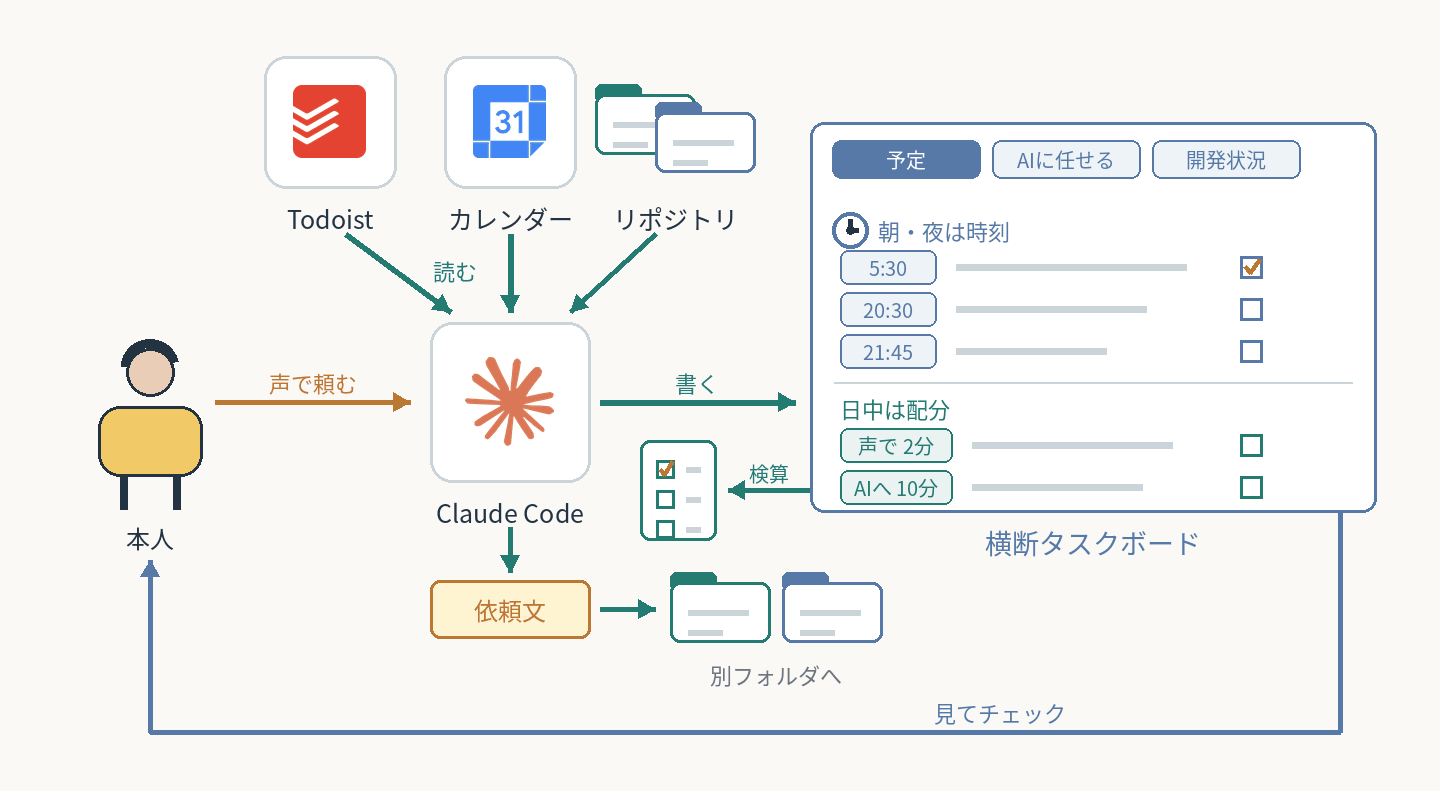
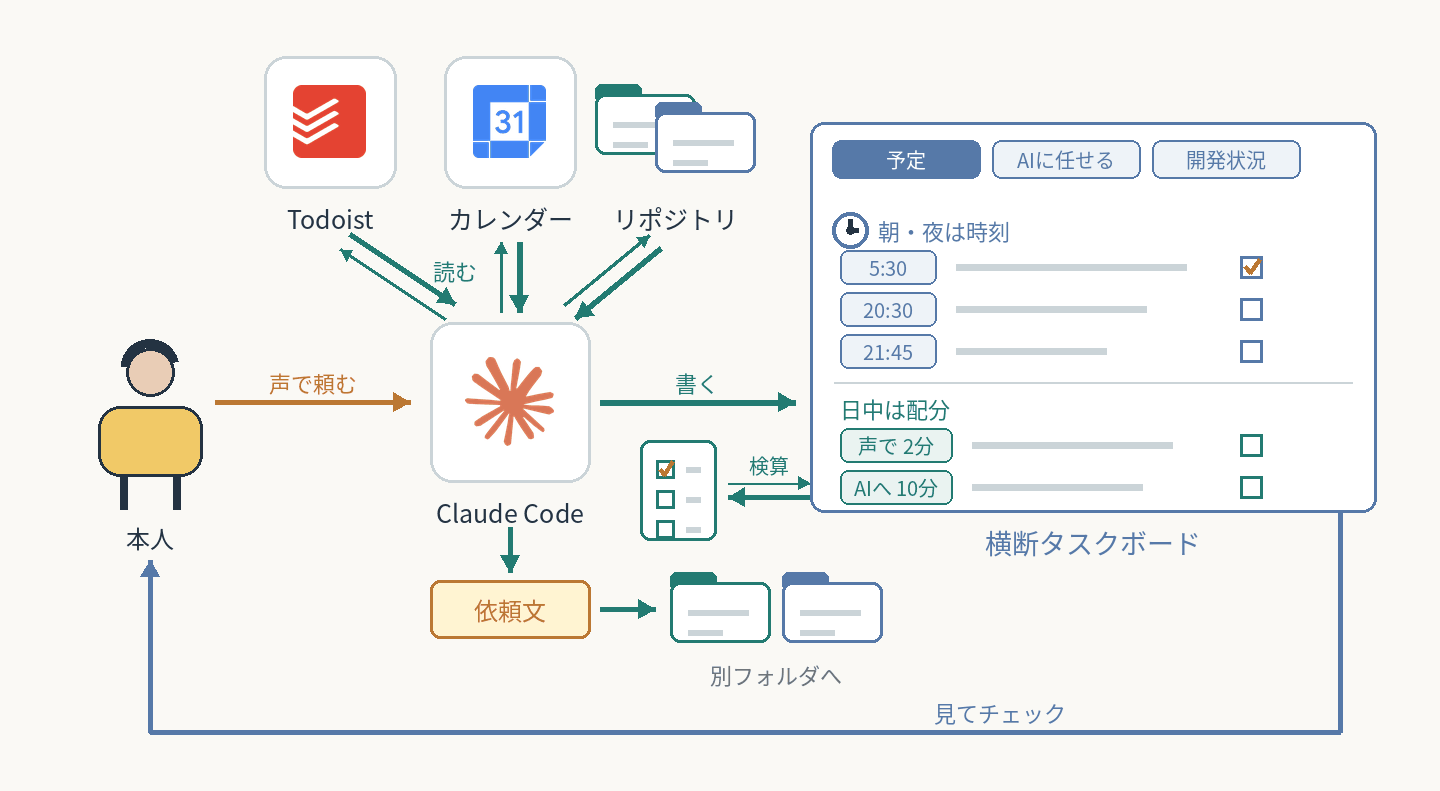
AI が読みに行く関係を pull()（細い線で取りに行き、太い線で戻る）で描く決まりにし、図 14 枚を描き直す
本人の指摘（2026-11-01）：Gmail から ChatGPT へ向く矢印だと、Gmail が内容を押し込んでいるように見える。実際は ChatGPT が読みに行く。
AGENTS.md「見せ方と図」に決まりを足し、figkit.pull() を追加。AI が書く関係・本人の操作・通知は arrow() のまま。

Changed region(s): [[0.3438, 0.3034, 0.4688, 0.3944], [0.2188, 0.3034, 0.3125, 0.3944], [0.5, 0.5765, 0.5625, 0.6372]]

diff --git a/systems/daily-task-hub/figure.py b/systems/daily-task-hub/figure.py
@@ -55,14 +55,14 @@ fk.service('openai', cgx, cgy, 'ChatGPT', tile=CGT)
 fk.clock(cgr, cgt, 30)
 fk.text(cgr + 40, cgt - 16, '毎朝6:00', 26, fk.BLUE)
 
-# Gmail → ChatGPT（読む）：左の上段に入る
-fk.arrow([(GM[0] + 66, GM[1]), (404, GM[1]), (404, cgy - 50), (cgl - 6, cgy - 50)])
+# ChatGPT が Gmail の未読を読みに行く（Gmail が押し込むのではない）ので pull()。左の上段
+fk.pull([(cgl - 6, cgy - 50), (410, cgy - 50), (410, GM[1]), (GM[0] + 66, GM[1])])
 fk.centered(334, GM[1] - 42, '読む', 23, fk.TEAL)
-# ブックマーク ⇢ ChatGPT（頼んだ時だけ）：左の中段に入る
-fk.dashed_arrow([(bx + 30, by), (344, by), (344, cgy), (cgl - 6, cgy)])
-fk.centered(284, by - 40, '頼んだ時', 23, fk.AMBER)
-# iPhone 音声 → ChatGPT（音声モードで頼む）：左の下段に入り、ChatGPT → Todoist に合流する
-fk.arrow([(vx + 48, vy), (384, vy), (384, cgy + 50), (cgl - 6, cgy + 50)], fk.BLUE)
+# ChatGPT がブックマークを読みに行く（頼んだ時だけなので薄い色）。左の中段
+fk.pull([(cgl - 6, cgy), (344, cgy), (344, by), (bx + 30, by)], fk.FAINT)
+fk.centered(284, by - 48, '頼んだ時', 23, fk.AMBER)
+# iPhone 音声 → ChatGPT（本人が音声モードで頼む）：左の下段に入り、ChatGPT → Todoist に合流する
+fk.arrow([(vx + 48, vy), (372, vy), (372, cgy + 50), (cgl - 6, cgy + 50)], fk.BLUE)
 fk.centered(293, vy - 40, 'その場で', 23, fk.BLUE)
 
 # ── Todoist（タスクの集まる場所） ──────────────────────────
@@ -75,12 +75,12 @@ fk.service('todoist', tdx, tdy, 'Todoist', tile=TDT)
 # ChatGPT → Todoist（登録・整理）
 fk.arrow([(cgr + 6, cgy - 25), (tdx - 40, cgy - 25), (tdx - 40, tdt - 6)])
 fk.text(tdx - 28, 330, '登録・整理', 23, fk.TEAL)
-# Todoist → ChatGPT（読む）
-fk.arrow([(tdl - 6, tdy - 30), (774, tdy - 30), (774, cgy + 35), (cgr + 6, cgy + 35)])
-fk.text(786, 392, '読む', 23, fk.TEAL)
+# ChatGPT が Todoist の Inbox を読みに行く（pull()。登録・整理の書き込みとは別の線）
+fk.pull([(cgr + 6, cgy + 35), (774, cgy + 35), (774, tdy - 30), (tdl - 6, tdy - 30)])
+fk.text(796, 392, '読む', 23, fk.TEAL)
 
 # 手入力 → Todoist（直接入る）。音声の横線（y=490）より 100px 下を通し、別の線と分かるようにする。
-# 曲がる位置は図の下中央が空かないよう右寄り（x=700）。「読む」の縦線（x=774）とは交わらない
+# 曲がる位置は図の下中央が空かないよう右寄り（x=700）。「読む」の 2 本線（x=765〜783）とは交わらない
 JX = 700
 fk.arrow([(mx + 84, my), (JX, my), (JX, tdy + 50), (tdl - 6, tdy + 50)], fk.BLUE)
 

diff --git a/scripts/figkit.py b/scripts/figkit.py
@@ -9,6 +9,7 @@
 - 図の中に題名・副題・説明の帯・注記を入れない。絵・矢印・短いラベル（原則 12 字以内）だけで伝える
 - サービスは service()（ロゴ＋名前）で示す。ロゴは scripts/logos/（Simple Icons、CC0）。無いサービスは名前の文字だけ
 - 横幅は 1440px。縦は save() が中身に合わせて切り詰める（最大 900px）
+- AI が読みに行く関係は pull()（AI → 取りに行く先の順に点を渡す）。AI が書き込む関係・本人の操作・通知は arrow()
 """
 import math
 from pathlib import Path
@@ -69,6 +70,38 @@ def arrow(points, color=TEAL, width=6):
     d.polygon([(x, y),
                (x - 19 * math.cos(a - .5), y - 19 * math.sin(a - .5)),
                (x - 19 * math.cos(a + .5), y - 19 * math.sin(a + .5))], fill=color)
+
+
+def _offset(points, o):
+    """折れ線を法線方向に o だけずらす（角は miter）。水平・垂直の線分向け。"""
+    segs = []
+    for (x0, y0), (x1, y1) in zip(points, points[1:]):
+        length = math.hypot(x1 - x0, y1 - y0) or 1
+        segs.append((-(y1 - y0) / length, (x1 - x0) / length))
+    out = []
+    for i, (x, y) in enumerate(points):
+        n1 = segs[max(i - 1, 0)]; n2 = segs[min(i, len(segs) - 1)]
+        dot = n1[0] * n2[0] + n1[1] * n2[1]
+        k = o / (1 + dot) if dot > -0.9 else o
+        out.append((x + (n1[0] + n2[0]) * k, y + (n1[1] + n2[1]) * k))
+    return out
+
+
+def pull(points, color=TEAL, width=6, gap=9):
+    """AI が取りに行って読む関係。points は AI → サービス（取りに行く向き）。
+
+    細い線が AI からサービスへ向かい、太い線（データ）がサービスから AI へ戻る。
+    サービスが AI に押し込んでいるように見せないための部品。AI が書き込む関係は arrow() のまま。
+    """
+    out = _offset(points, -gap)
+    back = list(reversed(_offset(points, gap)))
+    d.line(out, fill=color, width=max(2, width // 2), joint='curve')
+    x, y = out[-1]; x0, y0 = out[-2]
+    a = math.atan2(y - y0, x - x0)
+    d.polygon([(x, y),
+               (x - 13 * math.cos(a - .5), y - 13 * math.sin(a - .5)),
+               (x - 13 * math.cos(a + .5), y - 13 * math.sin(a + .5))], fill=color)
+    arrow(back, color, width)
 
 
 def dashed_arrow(points, color=FAINT, width=4, dash=14, gap=10):

diff --git a/systems/context-reading-loop/figure.py b/systems/context-reading-loop/figure.py
@@ -41,17 +41,17 @@ fk.text(GPT + 158, TY - HALF - 47, '毎週', 25, fk.BLUE)
 fk.service('github', LOG, TY)
 fk.centered(LOG, TY - HALF - 46, 'reading-log', 25)
 
-# personal-ai-context ⇄ ChatGPT
-fk.arrow([(CTX + HALF + 16, TY - 20), (GPT - HALF - 16, TY - 20)], fk.BLUE)
-fk.centered((CTX + GPT) / 2, TY - 56, '読む', 24, fk.BLUE)
-fk.arrow([(GPT - HALF - 16, TY + 20), (CTX + HALF + 16, TY + 20)], fk.TEAL)
-fk.centered((CTX + GPT) / 2, TY + 32, '会話の差分を更新', 24, fk.TEAL)   # 元は会話。読書レビューは書き戻さない
+# personal-ai-context ⇄ ChatGPT：読むのは ChatGPT が取りに行く（pull）、更新は書き込む（arrow）
+fk.pull([(GPT - HALF, TY - 16), (CTX + HALF, TY - 16)], fk.BLUE)
+fk.centered((CTX + GPT) / 2, TY - 60, '読む', 24, fk.BLUE)
+fk.arrow([(GPT - HALF, TY + 26), (CTX + HALF, TY + 26)], fk.TEAL)
+fk.centered((CTX + GPT) / 2, TY + 38, '会話の差分を更新', 24, fk.TEAL)   # 元は会話。読書レビューは書き戻さない
 
-# reading-log ⇄ ChatGPT
-fk.arrow([(LOG - HALF - 16, TY - 20), (GPT + HALF + 16, TY - 20)], fk.BLUE)
-fk.centered((GPT + LOG) / 2, TY - 56, '読む', 24, fk.BLUE)
-fk.arrow([(GPT + HALF + 16, TY + 20), (LOG - HALF - 16, TY + 20)], fk.TEAL)
-fk.centered((GPT + LOG) / 2, TY + 32, '順位・感想を記録', 24, fk.TEAL)   # 本人の感想も会話経由で reading-log へ
+# reading-log ⇄ ChatGPT：同じく読むは pull、記録は arrow（gap を負にして細い線を内側に揃える）
+fk.pull([(GPT + HALF, TY - 16), (LOG - HALF, TY - 16)], fk.BLUE, gap=-9)
+fk.centered((GPT + LOG) / 2, TY - 60, '読む', 24, fk.BLUE)
+fk.arrow([(GPT + HALF, TY + 26), (LOG - HALF, TY + 26)], fk.TEAL)
+fk.centered((GPT + LOG) / 2, TY + 38, '順位・感想を記録', 24, fk.TEAL)   # 本人の感想も会話経由で reading-log へ
 
 # 本人：reading-log を見て読み、感想を ChatGPT に話す（ChatGPT が reading-log へ記録する往復）
 PY = 580

diff --git a/cases/handoff-and-todo-files/figure.py b/cases/handoff-and-todo-files/figure.py
@@ -50,11 +50,11 @@ fk.centered(455, 222, '書く', 22, fk.TEAL)
 fk.arrow([(LX + 85, 360), (DX - 10, 470)])
 fk.centered(455, 428, '問いを書く', 22, fk.TEAL)
 
-# 読む（2 つのファイル → 右の Claude）
-fk.arrow([(DX + 150, 212), (RX - 85, 300)])
-fk.centered(975, 222, '読む', 22, fk.TEAL)
-fk.arrow([(DX + 150, 470), (RX - 85, 360)])
-fk.centered(960, 366, '読む', 22, fk.TEAL)
+# 読む（右の Claude が 2 つのファイルを読みに行く）
+fk.pull([(RX - 85, 300), (DX + 150, 212)])
+fk.centered(975, 206, '読む', 22, fk.TEAL)
+fk.pull([(RX - 85, 360), (DX + 150, 470)])
+fk.centered(960, 362, '読む', 22, fk.TEAL)
 
 # 答えを書く（右の Claude → TODO。本人の答えを本人の言葉で残す）
 fk.arrow([(RX - 85, 410), (DX + 152, 530)], fk.AMBER, 5)
@@ -75,7 +75,7 @@ fk.centered(372, 766, '点検', 24, fk.TEAL)
 fk.arrow([(424, 650), (DX + 18, 568)], fk.TEAL, 5)
 fk.centered(600, 642, '古さを見つける', 22, fk.TEAL)
 
-# 右下中央：横断タスクボードが TODO を読む
+# 右下中央：横断タスクボードが TODO を読みに行く
 BX0, BY0, BX1, BY1 = 830, 640, 1090, 790
 fk.rr((BX0, BY0, BX1, BY1), 'white', fk.BLUE, 3, 14)
 for k, w in enumerate([150, 110, 130]):
@@ -83,7 +83,7 @@ for k, w in enumerate([150, 110, 130]):
     fk.rr((BX0 + 22, ry, BX0 + 70, ry + 26), '#eef3f8', fk.BLUE, 2, 7)
     fk.d.line((BX0 + 86, ry + 13, BX0 + 86 + w, ry + 13), fill=fk.LINE, width=6)
 fk.centered((BX0 + BX1) / 2, 800, '横断タスクボード', 24, fk.BLUE)
-fk.arrow([(DX + 122, 568), (BX0 + 30, BY0 - 8)], fk.BLUE, 5)
-fk.centered(848, 578, '読む', 22, fk.BLUE)
+fk.pull([(BX0 + 30, BY0 - 8), (DX + 122, 568)], fk.BLUE, 5)
+fk.centered(872, 574, '読む', 22, fk.BLUE)
 
 fk.save(Path(args.out))

diff --git a/cases/scheduled-reviews/figure.py b/cases/scheduled-reviews/figure.py
@@ -39,12 +39,12 @@ fk.text(732, 130, '20:30・22:00', 22, fk.BLUE)
 # 中央：ChatGPT のスケジュールが記録と会話を確認・分析する
 fk.service('openai', 680, 300, 'ChatGPT')
 
-# 左：記録（GitHub のリポジトリ）。読んで、結果を保存する
+# 左：記録（GitHub のリポジトリ）。ChatGPT が取りに行って読み（pull）、結果を保存する（arrow）
 fk.service('github', 210, 300, 'GitHub')
-fk.arrow([(280, 272), (610, 272)])
-fk.centered(445, 230, '読む', 24, fk.TEAL)
-fk.arrow([(610, 328), (280, 328)])
-fk.centered(445, 338, '保存', 24, fk.TEAL)
+fk.pull([(614, 268), (276, 268)])
+fk.centered(445, 222, '読む', 24, fk.TEAL)
+fk.arrow([(614, 330), (276, 330)])
+fk.centered(445, 340, '保存', 24, fk.TEAL)
 
 # 左上：もう 1 つの入力。会話（コンテキスト更新）は別の定期処理なので、記録の矢印とはつながない
 bubble(400, 92, 140, 80, '会話')
@@ -59,12 +59,12 @@ fk.person(1250, 290, .72)
 fk.centered(1250, 390, '本人', 26)
 fk.arrow([(1110, 300), (1175, 300)], fk.BLUE, 5)
 
-# 下：本人が目的・周期・判断基準を決めて ChatGPT へ渡す
+# 下：本人が目的・周期・判断基準を決める（arrow）。ChatGPT はそれを取りに行って読む（pull）
 fk.rr((460, 585, 900, 655), fk.NOTE, '#e7ca7c', 2, 12)
 fk.centered(680, 600, '目的・周期・判断基準', 24)
 fk.arrow([(1250, 446), (1250, 620), (910, 620)], fk.AMBER, 5)
-fk.arrow([(680, 580), (680, 424)], fk.AMBER, 5)
-fk.text(698, 486, '設定', 24, fk.AMBER)
+fk.pull([(680, 424), (680, 580)], fk.AMBER, 5)
+fk.text(706, 486, '設定', 24, fk.AMBER)
 
 fk.save(HERE / 'cover.png')
 

diff --git a/cases/allowance-shopping-plan/figure.py b/cases/allowance-shopping-plan/figure.py
@@ -54,19 +54,19 @@ fk.text(232, 288, '調べてメモ', 22, fk.TEAL)
 fk.service('notion', 210, 420, 'Notion')
 wish_db(300, 354)
 
-# 中央：Claude Code が読んで計算し、画面を作る
-fk.arrow([(515, 400), (638, 400)])
-fk.centered(576, 362, '読む', 22, fk.TEAL)
-fk.dashed_arrow([(638, 445), (515, 445)], fk.FAINT, 4)
-fk.centered(576, 456, '反映', 22, fk.GRAY)
+# 中央：Claude Code が取りに行って読み、計算し、画面を作る（書き戻しは必要なときだけ）
+fk.pull([(643, 404), (505, 404)])
+fk.centered(576, 356, '読む', 22, fk.TEAL)
+fk.dashed_arrow([(643, 452), (505, 452)], fk.FAINT, 4)
+fk.centered(576, 462, '反映', 22, fk.GRAY)
 fk.service('claude', 720, 420, 'Claude Code', tile=150)
 
-# 上：Amazon の値段の履歴（Keepa）を Claude が読む
+# 上：Amazon の値段の履歴（Keepa）を Claude が取りに行って読む（2 つの札を 1 つの枠にまとめ、pull は 1 本）
+fk.rr((580, 70, 872, 232), 'white', fk.BLUE, 3, 18)
 fk.service('amazon', 660, 150, 'Amazon', tile=118)
 fk.service('keepa', 792, 150, 'Keepa', tile=118)
-fk.arrow([(660, 215), (660, 338)], fk.BLUE, 5)
-fk.arrow([(790, 215), (790, 338)], fk.BLUE, 5)
-fk.centered(725, 258, '値段の履歴', 20, fk.BLUE)
+fk.pull([(720, 343), (720, 234)], fk.BLUE, 5)
+fk.text(744, 275, '値段の履歴', 20, fk.BLUE)
 
 # 右：計画の画面（積立はひとつ。高すぎる物は保留）
 fk.arrow([(800, 420), (945, 420)])

diff --git a/cases/daily-cross-task-board/figure.py b/cases/daily-cross-task-board/figure.py
@@ -53,9 +53,10 @@ fk.centered(675, 228, 'リポジトリ', 25)
 # 中央：Claude Code が読んで組む
 CX, CY = 510, 430
 fk.service('claude', CX, CY, 'Claude Code', tile=160)
-fk.arrow([(345, 262), (CX - 60, CY - 90)])
-fk.arrow([(510, 262), (CX, CY - 90)])
-fk.arrow([(655, 262), (CX + 60, CY - 90)])
+# Claude Code が取りに行って読む（細い線が向かい、太い線がデータを持ち帰る）
+fk.pull([(CX - 60, CY - 90), (345, 270)])
+fk.pull([(CX, CY - 90), (510, 270)])
+fk.pull([(CX + 60, CY - 90), (655, 270)])
 fk.centered(455, 282, '読む', 22, fk.TEAL)
 
 # 右：横断タスクボード（時刻の枠・配分の枠）
@@ -63,10 +64,10 @@ fk.arrow([(CX + 90, CY), (795, CY)])
 fk.centered(697, CY - 36, '書く', 22, fk.TEAL)
 bx0, by0, bx1, by1 = 810, 150, 1376, 540
 
-# 検算：書いたあとにボードから戻って確かめる（件数・時刻の重なり）
+# 検算：書いたあとにボードを読み直して確かめる（件数・時刻の重なり）。読みに行くので pull
 fk.checklist(640, 468, 76, 100)
-fk.arrow([(bx0, 518), (728, 518)], fk.TEAL, 5)
-fk.centered(769, 486, '検算', 20, fk.TEAL)
+fk.pull([(728, 518), (bx0, 518)], fk.TEAL, 5, gap=7)
+fk.centered(769, 478, '検算', 20, fk.TEAL)
 fk.rr((bx0, by0, bx1, by1), 'white', fk.BLUE, 3, 14)
 for k, (name, on) in enumerate([('予定', True), ('AIに任せる', False), ('開発状況', False)]):
     tx = bx0 + 22 + k * 160

diff --git a/cases/daily-todoist-triage/figure.py b/cases/daily-todoist-triage/figure.py
@@ -41,9 +41,9 @@ fk.clock(640, 150, 36)
 fk.text(690, 130, '毎朝6:00', 30, fk.BLUE)
 fk.service('openai', 720, CY, 'ChatGPT')
 
-# Inbox → ChatGPT（読む） → Todoist（更新）
-fk.arrow([(362, CY), (640, CY)])
-fk.centered(501, CY - 42, '読む', 24, fk.TEAL)
+# ChatGPT が Inbox を取りに行って読む（pull） → Todoist（更新は書き込みなので arrow）
+fk.pull([(654, CY), (362, CY)])
+fk.centered(508, CY - 50, '読む', 24, fk.TEAL)
 fk.arrow([(800, CY), (1110, CY)])
 fk.centered(955, CY - 42, '更新', 24, fk.TEAL)
 
@@ -64,13 +64,13 @@ fk.text(px + 128, py + 133, '10分', 24, fk.TEAL)
 d.polygon([(px + 260, py + 126), (px + 260, py + 170), (px + 265, py + 152), (px + 302, py + 152), (px + 302, py + 126)],
           fill=fk.AMBER)
 
-# 下：本人が基準（優先度・例外・期限）を決めて ChatGPT へ指示する
+# 下：本人が基準（優先度・例外・期限）を書き（arrow）、ChatGPT がそれを読みに行く（pull）
 fk.person(218, 620, 0.48)
 fk.centered(218, 690, '本人', 24)
 fk.rr((372, 585, 814, 655), fk.NOTE, '#e7ca7c', 2, 12)
 fk.centered(593, 600, '優先度・例外・期限', 24)
 fk.arrow([(281, 620), (354, 620)], fk.AMBER, 5)
-fk.arrow([(720, 580), (720, 424)], fk.AMBER, 5)
-fk.text(738, 486, '指示', 24, fk.AMBER)
+fk.pull([(720, 424), (720, 580)], fk.AMBER, 5)
+fk.text(750, 486, '指示', 24, fk.AMBER)
 
 fk.save(HERE / "cover.png")

diff --git a/cases/article-drafting-workflow/figure.py b/cases/article-drafting-workflow/figure.py
@@ -31,8 +31,8 @@ fk.service('claude', CX, CY, 'Claude Code', tile=160)
 # 上：ネタ帳から題材を選ぶ
 fk.folder(CX - 53, 65)
 fk.centered(CX - 110, 92, 'ネタ帳', 24)
-fk.arrow([(CX, 165), (CX, CY - 90)])
-fk.text(CX + 16, 185, '題材', 22, fk.TEAL)
+fk.pull([(CX, CY - 90), (CX, 165)])
+fk.text(CX + 22, 185, '題材', 22, fk.TEAL)
 
 # 上右：Notion の購入判断ノートを材料にする構想（点線）
 fk.service('notion', 1020, 120, '購入判断ノート', tile=120)
@@ -62,8 +62,8 @@ fk.checklist(LX, LY)
 fk.centered(LX + 52, LY + 128, '文章の原則', 24, fk.TEAL)
 fk.arrow([(DX + 150, DY + 80), (LX - 10, DY + 80)], fk.TEAL, 5)
 fk.centered((DX + 150 + LX - 10) / 2, DY + 45, '直しを足す', 20, fk.TEAL)
-fk.arrow([(LX + 52, LY - 10), (LX + 52, CY + 112)], fk.TEAL, 5)
-fk.text(LX + 66, CY + 130, '次に読む', 20, fk.TEAL)
+fk.pull([(LX + 52, CY + 112), (LX + 52, LY - 10)], fk.TEAL, 5)
+fk.text(LX + 76, CY + 130, '次に読む', 20, fk.TEAL)
 
 # 右：Qiita へ限定共有で投稿（本人が画像を貼って公開）。note は下書き保存がまだ（点線）
 QX, QY = 1270, 200

diff --git a/cases/youtube-playlist-cleanup/figure.py b/cases/youtube-playlist-cleanup/figure.py
@@ -36,8 +36,8 @@ fk.centered(250, 540, '増えたマイリスト', 30)
 # 中央：ChatGPT（Computer Use）が棚卸しして整理する
 fk.centered(720, 262, '棚卸し・整理', 28, fk.TEAL)
 fk.service('openai', 720, 400, 'ChatGPT', tile=150)
-fk.arrow([(460, 400), (632, 400)])
-fk.arrow([(808, 400), (1035, 400)])
+fk.pull([(645, 400), (460, 400)])      # 画面のマイリストを読みに行く（Computer Use）
+fk.arrow([(808, 400), (1035, 400)])    # 名前変更・統合・削除の操作（書き込み）
 
 # 右：整理後のマイリスト（左のまとまりと余白を揃えるため、中心を 1185 に置く）
 fk.service('youtube', 1185, 165, 'YouTube', tile=110)
@@ -51,7 +51,7 @@ fk.centered(490, 756, '本人', 26)
 fk.arrow([(534, 688), (572, 688)], fk.AMBER, 5)
 fk.rr((584, 652, 856, 724), fk.NOTE, '#e7ca7c', 2, 12)
 fk.centered(720, 669, '残す・まとめる基準', 26)
-fk.arrow([(720, 646), (720, 536)], fk.AMBER, 5)
+fk.pull([(720, 536), (720, 646)], fk.AMBER, 5)   # 基準は ChatGPT が読みに行く
 
 fk.save(HERE / 'cover.png')
 

diff --git a/cases/shopping-decision-notes/figure.py b/cases/shopping-decision-notes/figure.py
@@ -28,12 +28,12 @@ f.centered(205, 515, '本人', 29)
 f.arrow([(354, 430), (600, 430)], f.AMBER)
 f.centered(477, 388, '相談', 24, f.AMBER)
 
-# 中：ChatGPT が会話と既存の記録を照合して整理する。
+# 中：ChatGPT が既存の記録を取りに行って読み、会話と照合して書く。
 f.service('openai', 695, 420, 'ChatGPT')
-f.arrow([(780, 392), (915, 392)])
-f.centered(848, 350, '書く', 24, f.TEAL)
-f.arrow([(915, 452), (780, 452)], f.BLUE)
-f.centered(848, 466, '読む', 24, f.BLUE)
+f.arrow([(762, 388), (933, 388)])
+f.centered(848, 346, '書く', 24, f.TEAL)
+f.pull([(762, 452), (933, 452)], f.BLUE)
+f.centered(848, 470, '読む', 24, f.BLUE)
 
 # 右：Notion の中で、商品メモと購入判断ノートを分ける。
 f.rr((935, 150, 1370, 600), 'white', f.BLUE, 3, 18)
